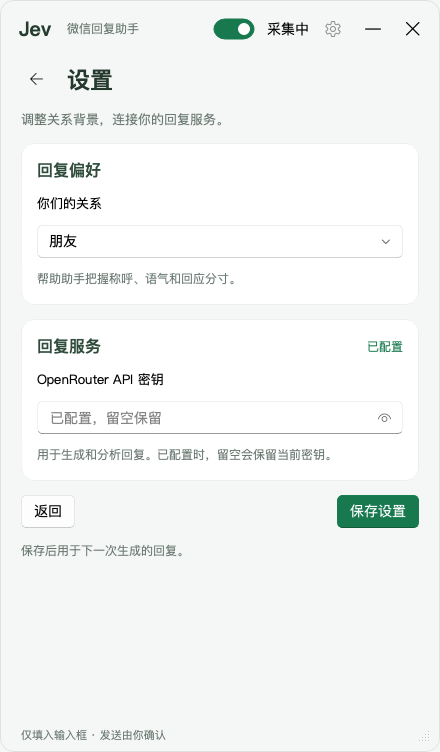
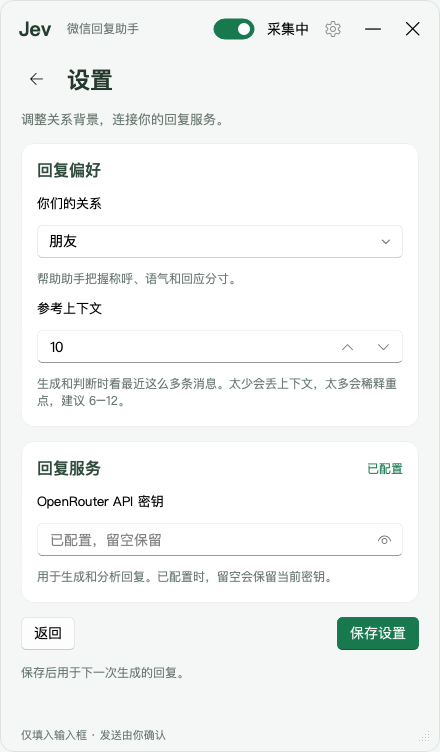
设置里加「参考上下文」条数（3~30，默认 10）：起草和 Jev 判断都按它取最近 N 条

diff --git a/app/overlay.py b/app/overlay.py
@@ -12,7 +12,7 @@ from PySide6.QtWidgets import (
 from qfluentwidgets import (
     BodyLabel, CardWidget, ComboBox, FluentIcon as FIF,
     IndeterminateProgressBar, LineEdit, PasswordLineEdit, PlainTextEdit,
-    PrimaryPushButton, PushButton, ScrollArea, SwitchButton, Theme, TransparentToolButton,
+    PrimaryPushButton, PushButton, ScrollArea, SpinBox, SwitchButton, Theme, TransparentToolButton,
     setCustomStyleSheet, setFont, setTheme, setThemeColor,
 )
 
@@ -336,6 +336,16 @@ class Overlay:
             lambda index: self.relEdit.setVisible(_RELATIONSHIPS[index][1] is None)
         )
         box.addWidget(_label("帮助助手把握称呼、语气和回应分寸。", 12, _MUTED))
+        context_label = _label("参考上下文", 13)
+        box.addWidget(context_label)
+        self.contextBox = SpinBox()
+        self.contextBox.setRange(3, 30)
+        self.contextBox.setAccessibleName("参考的最近消息条数")
+        context_label.setBuddy(self.contextBox)
+        box.addWidget(self.contextBox)
+        box.addWidget(_label(
+            "生成和判断时看最近这么多条消息。太少会丢上下文，太多会稀释重点，建议 6–12。", 12, _MUTED
+        ))
         body.addWidget(preference)
 
         connection = _Surface()
@@ -380,6 +390,7 @@ class Overlay:
         self.relationshipBox.setCurrentIndex(index)
         self.relEdit.setText(relationship if _RELATIONSHIPS[index][1] is None else "")
         self.relEdit.setVisible(_RELATIONSHIPS[index][1] is None)
+        self.contextBox.setValue(settings.context())
         self.keyEdit.clear()
         self.keyEdit.setPlaceholderText("已配置，留空保留" if settings.has_key() else "输入你的 API 密钥")
         self.keyState.setText("已配置" if settings.has_key() else "未配置")
@@ -398,7 +409,7 @@ class Overlay:
             self.keyEdit.setFocus()
             return
         try:
-            settings.save(key or None, relationship)
+            settings.save(key or None, relationship, self.contextBox.value())
         except Exception:
             self._settings_feedback("保存失败，请检查配置文件是否可写后重试。", error=True)
             return

diff --git a/app/settings.py b/app/settings.py
@@ -12,6 +12,7 @@ import os
 
 _CONFIG = os.path.join(os.path.dirname(os.path.dirname(os.path.abspath(__file__))), "config.json")
 _DEFAULT_RELATIONSHIP = "romantic partners"
+_DEFAULT_CONTEXT = 10
 _ENV = "OPENROUTER_API_KEY"
 
 
@@ -22,6 +23,16 @@ def relationship() -> str:
             return json.load(f).get("relationship") or _DEFAULT_RELATIONSHIP
     except (OSError, ValueError):
         return _DEFAULT_RELATIONSHIP
+
+
+def context() -> int:
+    """参考上下文条数：起草和判断各看最近多少条消息。3~30，缺失/脏数据一律退默认值。"""
+    try:
+        with open(_CONFIG, encoding="utf-8") as f:
+            n = int(json.load(f).get("context", _DEFAULT_CONTEXT))
+    except (OSError, ValueError, TypeError):
+        return _DEFAULT_CONTEXT
+    return max(3, min(30, n))
 
 
 def _registry_key() -> str:
@@ -48,8 +59,9 @@ def has_key() -> bool:
     return bool(key())
 
 
-def save(key_text: str | None, relationship_text: str) -> None:
-    """key 为空/None = 不改当前值。key 只写进程环境 + HKCU\\Environment，不写任何文件。"""
+def save(key_text: str | None, relationship_text: str, context_n: int | None = None) -> None:
+    """key 为空/None = 不改当前值。key 只写进程环境 + HKCU\\Environment，不写任何文件。
+    context_n 为 None = 保留原来的参考上下文条数。"""
     if key_text:
         os.environ[_ENV] = key_text
         try:
@@ -61,5 +73,6 @@ def save(key_text: str | None, relationship_text: str) -> None:
             ctypes.windll.user32.SendMessageTimeoutW(0xFFFF, 0x1A, 0, "Environment", 2, 5000, None)
         except Exception:
             pass  # 非 Windows（本机 Mac 开发）走不到，忽略
+    n = context() if context_n is None else max(3, min(30, int(context_n)))
     with open(_CONFIG, "w", encoding="utf-8") as f:
-        json.dump({"relationship": relationship_text}, f, ensure_ascii=False)
+        json.dump({"relationship": relationship_text, "context": n}, f, ensure_ascii=False)

diff --git a/core/engine.py b/core/engine.py
@@ -18,18 +18,19 @@ _REPLY_IDX = {"reply_a": 0, "reply_b": 1, "reply_c": 2}
 
 
 def analyze(messages: list, relationship: str,
-            model: str = DEFAULT_MODEL, timeout: float = 30) -> dict:
+            model: str = DEFAULT_MODEL, timeout: float = 30, context: int = 10) -> dict:
     """messages: [(from, text)] from ∈ {her, me}，最新一条在最后。
+    context: 起草和判断各看最近多少条消息（用户设置里的「参考上下文」）。
 
     返回 {candidates, best_index, best_reply, scores, answers, usage}。
     scores 是每条候选的胜出概率（0~1），取自 best_reply.probabilities，取不到记 0.0。
     只有对方最新说话时才有意义调它——是不是该触发由调用方判断（看 latest_from）。
     """
-    candidates = draft_candidates(messages, relationship, model=model, timeout=timeout)
+    candidates = draft_candidates(messages, relationship, model=model, timeout=timeout, keep=context)
 
     questions = dict(JUDGE_QUESTIONS)
     questions.update(build_rank_question(candidates))
-    result = ask(build_state(messages, relationship), questions, timeout=timeout)
+    result = ask(build_state(messages, relationship, keep=context), questions, timeout=timeout)
 
     answers = result.get("answers") or {}
     best_key = (answers.get("best_reply") or {}).get("choice")

diff --git a/tools/preview_ui.py b/tools/preview_ui.py
@@ -59,18 +59,21 @@ def main() -> int:
     args = parser.parse_args()
     target = Path(args.screenshot).expanduser() if args.screenshot else None
 
-    demo_settings = {"has_key": args.state != "setup", "relationship": "friends"}
+    demo_settings = {"has_key": args.state != "setup", "relationship": "friends", "context": 10}
 
-    def save_demo_settings(key, relationship_text):
+    def save_demo_settings(key, relationship_text, context_n=None):
         if key:
             demo_settings["has_key"] = True
         demo_settings["relationship"] = relationship_text
+        if context_n is not None:
+            demo_settings["context"] = context_n
 
     # 在创建 Overlay 前替换设置接口，整个事件循环期间都保持隔离。
     with patch.multiple(
         settings,
         has_key=lambda: demo_settings["has_key"],
         relationship=lambda: demo_settings["relationship"],
+        context=lambda: demo_settings["context"],
         save=save_demo_settings,
     ):
         from PySide6.QtCore import QTimer

diff --git a/main.py b/main.py
@@ -18,9 +18,7 @@ from app.fill import fill
 from app.overlay import Overlay
 from core.engine import analyze
 
-HISTORY = 20  # 给模型看最近多少条
-
-history = deque(maxlen=HISTORY)  # [(who, text)]，engine 只认 her/me
+history = deque(maxlen=60)  # [(who, text)]，engine 只认 her/me；只是缓冲区，实际喂模型几条由设置里的「参考上下文」决定
 state = {"area": None, "busy": False, "rerun": None, "revision": 0, "hwnd": None}
 results = queue.Queue()
 
@@ -57,7 +55,7 @@ def on_toggle_capture(on):
 def analyze_bg(msgs, revision):
     """后台线程只跑网络调用，结果丢队列；UI 只在主线程的 tick 里动（Qt 不能跨线程碰）。"""
     try:
-        results.put(("ok", analyze(msgs, settings.relationship()), revision))
+        results.put(("ok", analyze(msgs, settings.relationship(), context=settings.context()), revision))
     except Exception as e:
         results.put(("err", f"分析失败: {e}", revision))
 

diff --git a/core/draft.py b/core/draft.py
@@ -56,11 +56,11 @@ def _parse_three(content: str) -> list[str]:
 
 
 def draft_candidates(messages: list, relationship: str,
-                     model: str = DEFAULT_MODEL, timeout: float = 30) -> list[str]:
-    """messages: [(from, text)] from ∈ {her, me}; 返回 3 条中文候选。"""
+                     model: str = DEFAULT_MODEL, timeout: float = 30, keep: int = 10) -> list[str]:
+    """messages: [(from, text)] from ∈ {her, me}；只看最近 keep 条。返回 3 条中文候选。"""
     transcript = "\n".join(f"{w}: {t}" for w, t in
                            ((m[0], m[1]) if not isinstance(m, dict) else (m["from"], m["text"])
-                            for m in messages[-10:]))
+                            for m in messages[-keep:]))
     user = f"relationship: {relationship}\n\n对话（最后一条是最新）:\n{transcript}"
     payload = json.dumps({
         "model": model,

diff --git a/core/questions.py b/core/questions.py
@@ -204,8 +204,8 @@ JUDGE_QUESTIONS: dict = {
 }
 
 
-def build_state(messages: list, relationship: str) -> dict:
-    """messages: list of (from, text) or [from, text]. from is 'her' or 'me'. Keep last 10."""
+def build_state(messages: list, relationship: str, keep: int = 10) -> dict:
+    """messages: list of (from, text) or [from, text]. from is 'her' or 'me'. Keep last `keep`."""
     cleaned = []
     for item in messages:
         if isinstance(item, dict):
@@ -215,7 +215,7 @@ def build_state(messages: list, relationship: str) -> dict:
         if who not in ("her", "me"):
             raise ValueError(f"message from must be 'her' or 'me', got {who!r}")
         cleaned.append({"from": who, "text": str(text)})
-    cleaned = cleaned[-10:]
+    cleaned = cleaned[-keep:]
     latest_from = cleaned[-1]["from"] if cleaned else "her"
     return {
         "chat": {
